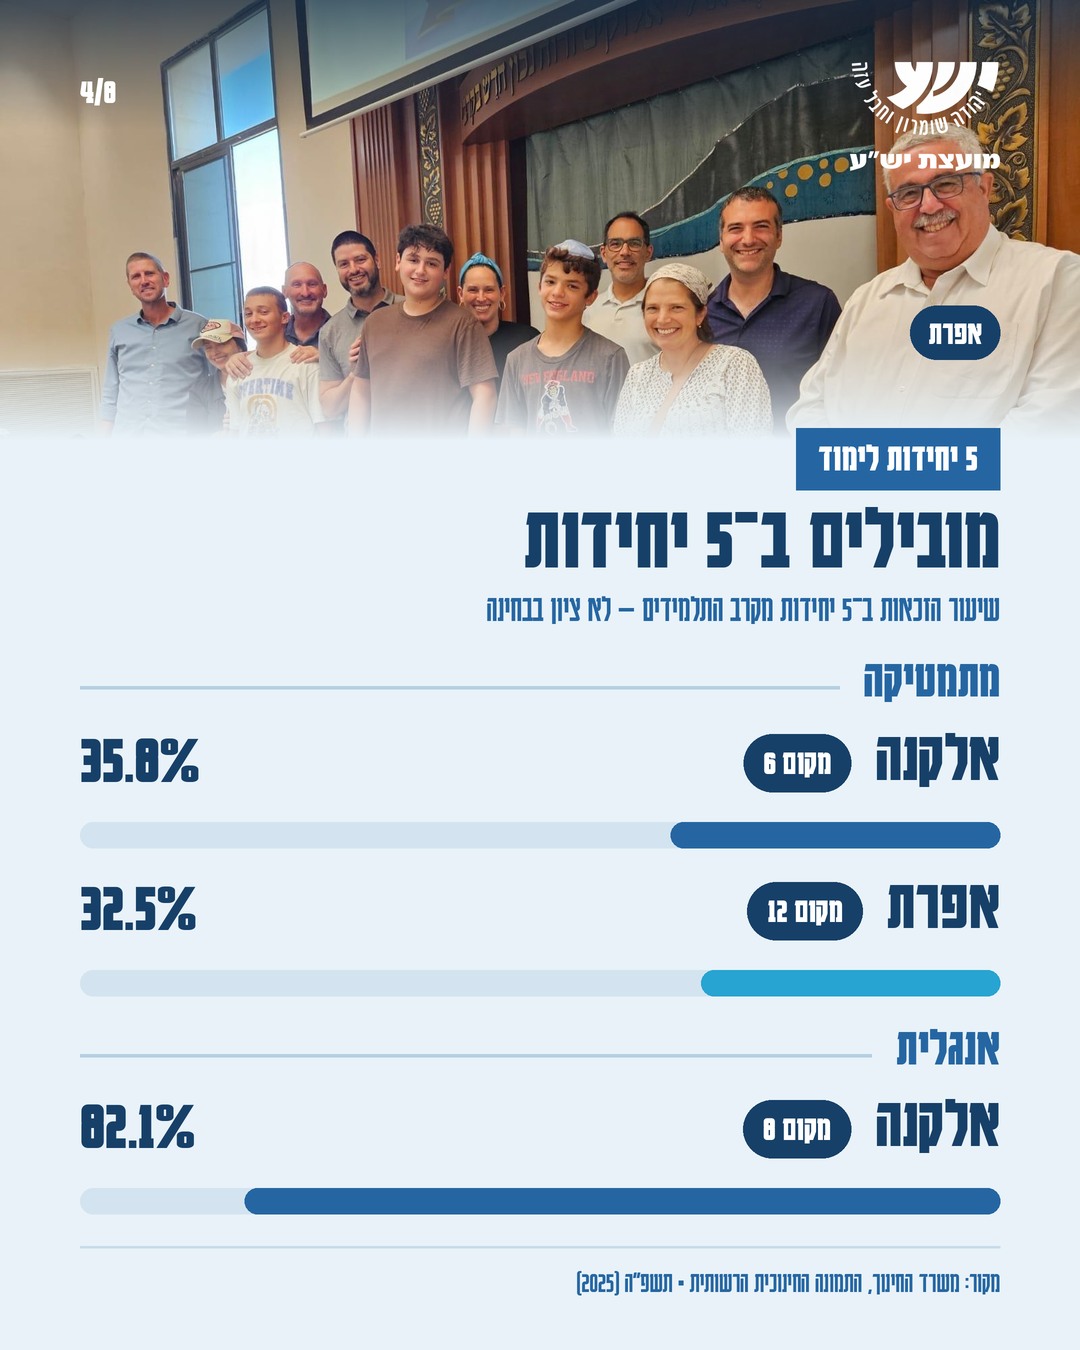
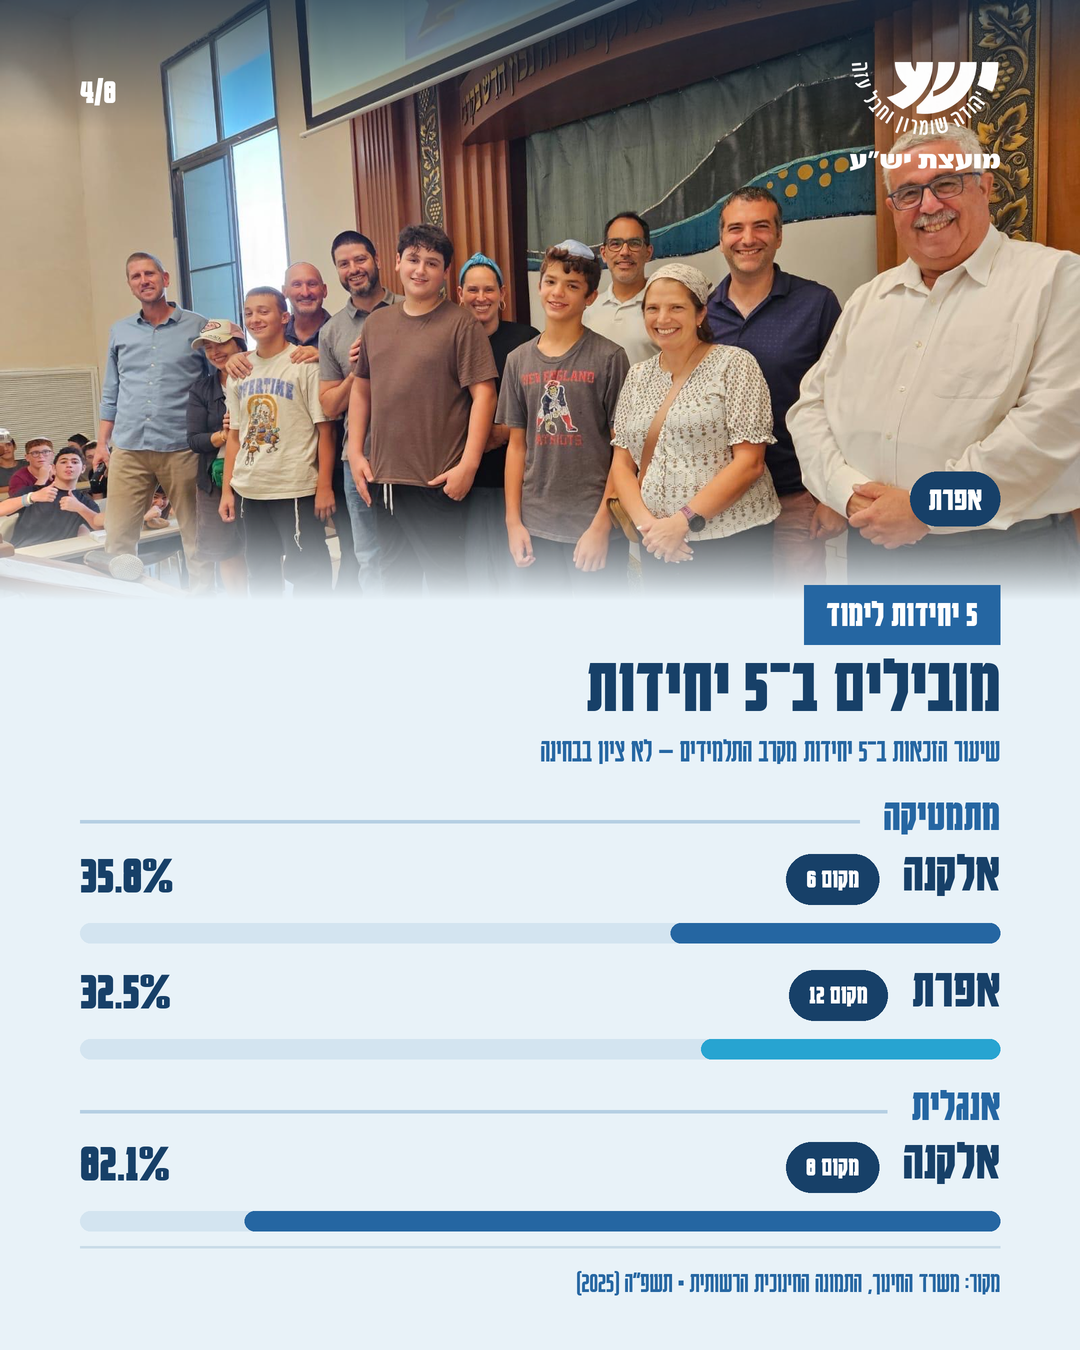
Show full photos in Yesha carousel so the children are not cropped
Claude-Session: https://claude.ai/code/session_01RS3QK6pAd3YhyAuXZSJjH1

diff --git a/content-kit/yesha/2026-10-education-carousel-v2/make.py b/content-kit/yesha/2026-10-education-carousel-v2/make.py
@@ -95,7 +95,7 @@ def bg_at(y):
     return tuple(int(DEEP[i] + (BLUE[i] - DEEP[i]) * t) for i in range(3))
 
 
-def photo(img, path, h, focus_y, fade_to, fade_from=0.55, caption=None, top_dark=150):
+def photo(img, path, h, focus_y, fade_to, fade_from=0.55, caption=None, top_dark=150, caption_top=False):
     """Cover-crop a photo into the top band (W x h) and fade its bottom into the slide colour."""
     ph = Image.open(path).convert('RGB')
     sc = max(W * S / ph.width, h * S / ph.height)
@@ -116,9 +116,12 @@ def photo(img, path, h, focus_y, fade_to, fade_from=0.55, caption=None, top_dark
     if caption:
         d = ImageDraw.Draw(img)
         w = tw(d, caption, 34)
-        y = h * fade_from - 20
-        d.rounded_rectangle(P(W - M - w - 36, y, W - M, y + 54), radius=27 * S, fill=NAVY)
-        text(d, (W - M - 18, y + 9), caption, 34, WHITE)
+        if caption_top:   # top-left, over the sky, so no one in the photo is covered
+            x1, y = M + w + 36, 125
+        else:
+            x1, y = W - M, h * fade_from - 20
+        d.rounded_rectangle(P(x1 - w - 36, y, x1, y + 54), radius=27 * S, fill=NAVY)
+        text(d, (x1 - 18, y + 9), caption, 34, WHITE)
 
 
 def tag(d, y, s, size=42, bg=BLUE):
@@ -136,17 +139,17 @@ def pill(d, x_right, y, s, size=36, bg=NAVY, fg=WHITE):
     return w + 40
 
 
-def bar_row(d, y, name, pct, rank_label, dark=False, strong=False):
-    """Name + rank pill (right), percentage (left), bar on a fixed 0–100% scale."""
+def bar_row(d, y, name, pct, rank_label, dark=False, strong=False, k=1.0):
+    """Name + rank pill (right), percentage (left), bar on a fixed 0–100% scale. k scales the row."""
     fg = WHITE if dark else NAVY
-    text(d, (W - M, y), name, 72, fg)
-    pill(d, W - M - tw(d, name, 72) - 24, y + 16, rank_label, 36,
+    text(d, (W - M, y), name, 72 * k, fg)
+    pill(d, W - M - tw(d, name, 72 * k) - 24, y + 16 * k, rank_label, 36 * k,
          bg=LB if dark else NAVY)
-    text(d, (M, y + 2), f'{pct:.1f}%', 72, LB if dark else NAVY, anchor='la', rtl=False)
-    by = y + 104; full = W - 2 * M
-    d.rounded_rectangle(P(M, by, W - M, by + 26), radius=13 * S, fill=(0x2E, 0x55, 0x80) if dark else TRACK)
+    text(d, (M, y + 2), f'{pct:.1f}%', 72 * k, LB if dark else NAVY, anchor='la', rtl=False)
+    by = y + 104 * k; full = W - 2 * M; bh = 26 * k
+    d.rounded_rectangle(P(M, by, W - M, by + bh), radius=bh / 2 * S, fill=(0x2E, 0x55, 0x80) if dark else TRACK)
     fill_w = full * pct / 100.0                                # proportional, zero-based
-    d.rounded_rectangle(P(W - M - fill_w, by, W - M, by + 26), radius=13 * S,
+    d.rounded_rectangle(P(W - M - fill_w, by, W - M, by + bh), radius=bh / 2 * S,
                         fill=LB if (dark or not strong) else BLUE)
 
 
@@ -205,15 +208,15 @@ def s1():
 # 2 — matriculation eligibility
 def s2():
     img = canvas(True)
-    photo(img, PHOTO_ELKANA, 520, 0.40, None, fade_from=0.48, caption='אלקנה', top_dark=170)
-    arcs(img, 120, 1340, n=3, r0=380)
+    photo(img, PHOTO_ELKANA, 720, 0.5, None, fade_from=0.86, caption='אלקנה', top_dark=170, caption_top=True)
+    arcs(img, 120, 1400, n=3, r0=380)
     d = chrome(img, 2, True, SRC_EDU, on_photo=True)
-    tag(d, 470, 'זכאות לבגרות', 42)
-    text(d, (W / 2, 670), '100%', 290, WHITE, anchor='mm', rtl=False, shadow=(10, 10, BLUE))
-    text(d, (W / 2, 862), 'זכאות לבגרות באלקנה', 80, LB, anchor='mm')
-    d.rounded_rectangle(P(150, 930, W - 150, 1045), radius=24 * S, fill=WHITE)
-    text(d, (W / 2, 987), 'השיעור הגבוה בארץ — במשותף', 62, NAVY, anchor='mm')
-    text(d, (W / 2, 1105), 'בקרב תלמידי י״ב במוסדות המגישים לבגרות ברשות.', 36, SOFT, anchor='mm', bold=False)
+    tag(d, 690, 'זכאות לבגרות', 40)
+    text(d, (W - M, 742), '100%', 210, WHITE, rtl=False, shadow=(8, 8, BLUE))
+    text(d, (W - M, 948), 'זכאות לבגרות באלקנה', 66, LB)
+    d.rounded_rectangle(P(M, 1040, W - M, 1130), radius=22 * S, fill=WHITE)
+    text(d, (W / 2, 1085), 'השיעור הגבוה בארץ — במשותף', 54, NAVY, anchor='mm')
+    text(d, (W - M, 1150), 'בקרב תלמידי י״ב במוסדות המגישים לבגרות ברשות.', 32, SOFT, bold=False)
     save(img, 2)
 
 
@@ -232,21 +235,21 @@ def s3():
 # 4 — 5 units math & English
 def s4():
     img = canvas(False)
-    photo(img, PHOTO_EFRAT, 440, 0.0, ICE, fade_from=0.74, caption='אפרת', top_dark=170)
+    photo(img, PHOTO_EFRAT, 600, 0.0, ICE, fade_from=0.82, caption='אפרת', top_dark=170)
     d = chrome(img, 4, False, SRC_EDU, on_photo=True)
-    tag(d, 428, '5 יחידות לימוד', 40)
-    text(d, (W - M, 488), 'מובילים ב־5 יחידות', 92, NAVY)
-    text(d, (W - M, 588), 'שיעור הזכאות ב־5 יחידות מקרב התלמידים — לא ציון בבחינה', 38, BLUE, bold=False)
+    tag(d, 585, '5 יחידות לימוד', 38)
+    text(d, (W - M, 642), 'מובילים ב־5 יחידות', 80, NAVY)
+    text(d, (W - M, 732), 'שיעור הזכאות ב־5 יחידות מקרב התלמידים — לא ציון בבחינה', 34, BLUE, bold=False)
 
     def section(y, title):
-        text(d, (W - M, y), title, 54, BLUE)
-        d.rectangle(P(M, y + 36, W - M - tw(d, title, 54) - 24, y + 39), fill=(0xB5, 0xCF, 0xE3))
+        text(d, (W - M, y), title, 46, BLUE)
+        d.rectangle(P(M, y + 30, W - M - tw(d, title, 46) - 24, y + 33), fill=(0xB5, 0xCF, 0xE3))
 
-    section(650, 'מתמטיקה')
-    bar_row(d, 718, 'אלקנה', 35.8, 'מקום 6', strong=True)
-    bar_row(d, 866, 'אפרת', 32.5, 'מקום 12')
-    section(1018, 'אנגלית')
-    bar_row(d, 1084, 'אלקנה', 82.1, 'מקום 8', strong=True)
+    section(790, 'מתמטיקה')
+    bar_row(d, 842, 'אלקנה', 35.8, 'מקום 6', strong=True, k=0.78)
+    bar_row(d, 958, 'אפרת', 32.5, 'מקום 12', k=0.78)
+    section(1080, 'אנגלית')
+    bar_row(d, 1130, 'אלקנה', 82.1, 'מקום 8', strong=True, k=0.78)
     save(img, 4)
 
 
@@ -300,31 +303,31 @@ def s6():
 # 7 — national service, women (2022 cohort data)
 def s7():
     img = canvas(True); arcs(img, 120, 1340, n=3, r0=400)
-    photo(img, PHOTO_SHOMRON, 430, 0.0, None, fade_from=0.62, caption='שומרון', top_dark=180)
+    photo(img, PHOTO_SHOMRON, 560, 0.0, None, fade_from=0.80, caption='שומרון', top_dark=180)
     d = chrome(img, 7, True, SRC_SERVICE, on_photo=True)
-    tag(d, 425, 'שירות לאומי · בנות', 40, bg=LB)
-    text(d, (W - M, 490), 'שלושת המקומות הראשונים בארץ', 84, WHITE)
+    tag(d, 548, 'שירות לאומי · בנות', 38, bg=LB)
+    text(d, (W - M, 606), 'שלושת המקומות הראשונים בארץ', 76, WHITE)
     sub = 'שירות לאומי / אזרחי — נשים'
-    text(d, (W - M, 592), sub, 42, SOFT, bold=False)
-    year_badge(d, W - M - tw(d, sub, 42, False) - 24, 586, True)
+    text(d, (W - M, 696), sub, 40, SOFT, bold=False)
+    year_badge(d, W - M - tw(d, sub, 40, False) - 24, 690, True)
     rows = [('שומרון', 88.7, 1), ('בית אל', 87.6, 2), ('קריית ארבע', 85.1, 3)]
     for i, (nm, pct, rk) in enumerate(rows):
-        y = 678 + i * 110
-        text(d, (W - M, y + 8), f'מקום {rk}', 40, LB)
-        text(d, (W - M - 130, y - 4), nm, 56, WHITE)
-        text(d, (M, y - 2), f'{pct:.1f}%', 56, WHITE, anchor='la', rtl=False)
-        by = y + 66; full = W - 2 * M
+        y = 768 + i * 88
+        text(d, (W - M, y + 6), f'מקום {rk}', 36, LB)
+        text(d, (W - M - 118, y - 4), nm, 48, WHITE)
+        text(d, (M, y - 2), f'{pct:.1f}%', 48, WHITE, anchor='la', rtl=False)
+        by = y + 56; full = W - 2 * M
         d.rounded_rectangle(P(M, by, W - M, by + 18), radius=9 * S, fill=(0x2E, 0x55, 0x80))
         d.rounded_rectangle(P(W - M - full * pct / 100, by, W - M, by + 18), radius=9 * S, fill=LB)
-    y = 1018
-    d.rounded_rectangle(P(M, y, W - M, y + 205), radius=22 * S, fill=(0x1E, 0x4A, 0x75))
-    text(d, (W - M - 30, y + 18), 'גם בין 20 המובילות:', 40, LB)
+    y = 1042
+    d.rounded_rectangle(P(M, y, W - M, y + 182), radius=22 * S, fill=(0x1E, 0x4A, 0x75))
+    text(d, (W - M - 30, y + 14), 'גם בין 20 המובילות:', 38, LB)
     others = [('ערבות הירדן', 74.5, 6), ('קדומים', 73.3, 7), ('מטה בנימין', 63.8, 15)]
     colw = (W - 2 * M - 60) / 3
     for i, (nm, pct, rk) in enumerate(others):
         xr = W - M - 30 - i * colw
-        text(d, (xr, y + 76), nm, 46, WHITE)
-        text(d, (xr, y + 136), f'{pct:.1f}% | מקום {rk}', 40, SOFT, bold=False)
+        text(d, (xr, y + 66), nm, 44, WHITE)
+        text(d, (xr, y + 122), f'{pct:.1f}% | מקום {rk}', 38, SOFT, bold=False)
     save(img, 7)
 
 
